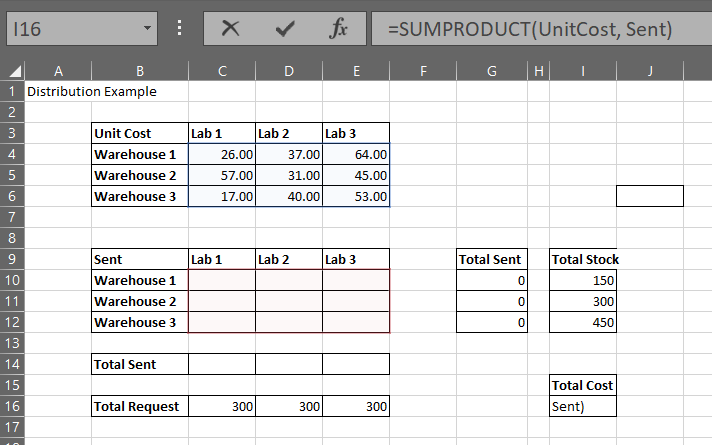
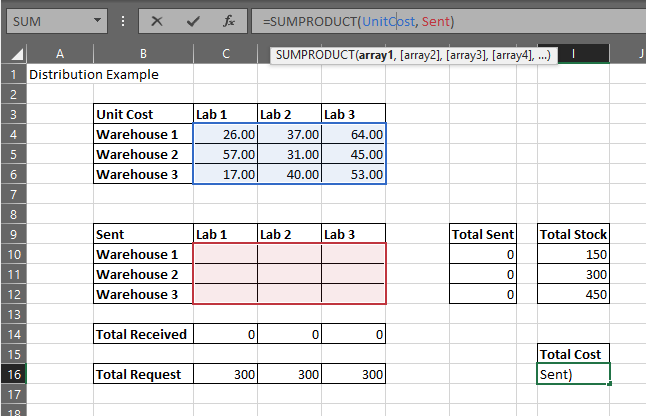
ep 4 and figs

diff --git a/_episodes/04-solver.md b/_episodes/04-solver.md
@@ -33,7 +33,21 @@ The second choice we need to make in Solver is to indicate the **Variable Cells*
 
 **Type Sent in the By Changing Variable Cells: box.**
 
-The next box allows us to set additional contraints on our analysis. In our case, the Total Sent from each warehouse can't exceed the Total Stock and the Total    
+The next box allows us to set additional constraints on our analysis. In our case, the **Total Sent** from each warehouse can't exceed the **Total Stock** and the **Total Received** by each lab should equal the **Total Request**. Click on the **Add** button and the following window will show up:
+
+![Change Constraint](../fig/2020-01-17-EngiExcel-changeConstraint.png)     
+
+The **Cell Reference** is the cell or group of cells with the function in it, with the values changing based on the **Variable Cells**. The **Constraint** is the cells or cells that have the values that remain constant. You can choose your operator from the pull-down menu, from **<=, >=, =, bin, diff, or int**. We won't talk about bin (binary), diff (difference), or int (integer) in this lesson. If you click the **Add** button you will get the chance to add another constraint, whereas if you click **OK** it will save that constraint and close the window. The **Cancel** button closes the window without saving.
+
+The last thing you need to do is **Select a Solving Method:**. The default is **GRG Nonlinear**. If you are not absolutely sure that your problem is linear, this is the best choice of method. The **Simplex LP** method is for linear problems and the **Evolutionary** method is for non-smooth problems. Your final Solver window should look like this:
+
+![Final Solver settings](../fig/2020-01-17-EngiExcel-solverFinal.png) 
+
+When you click **Solve** you will get the following information about the Solver solution:
+
+![Solver Results](../fig/2020-01-17-EngiExcel-solverResults.png)  
+
+ 
 
   
 
